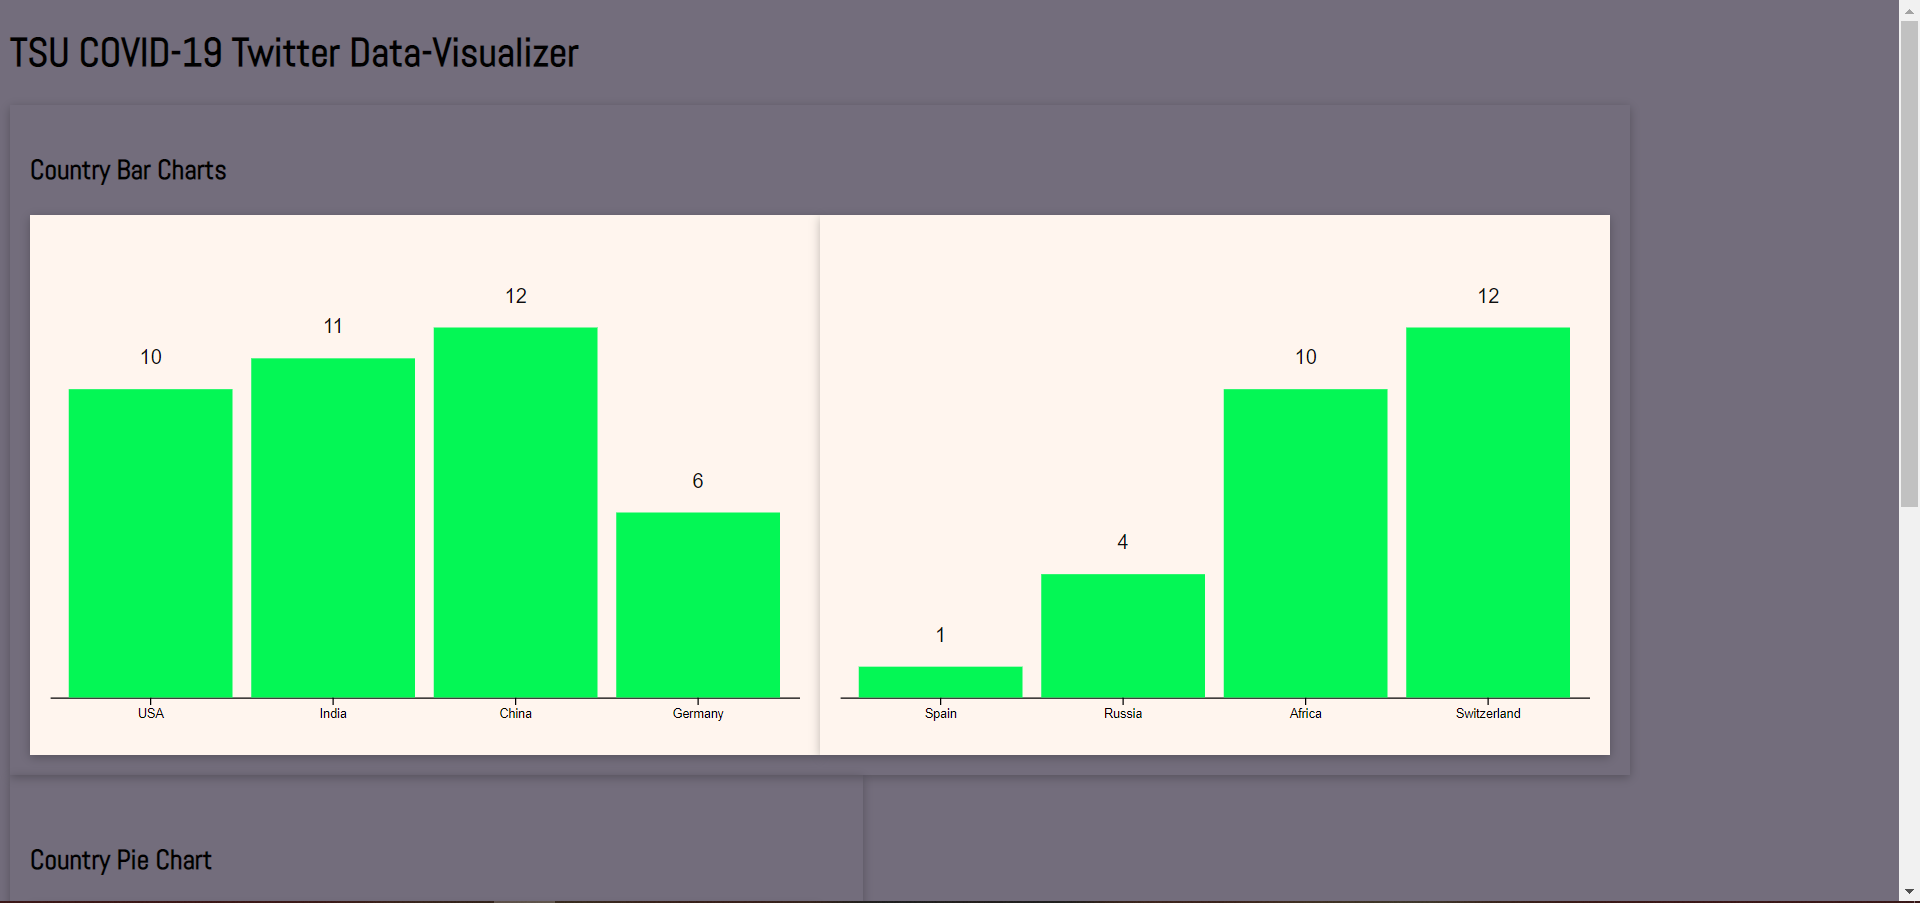
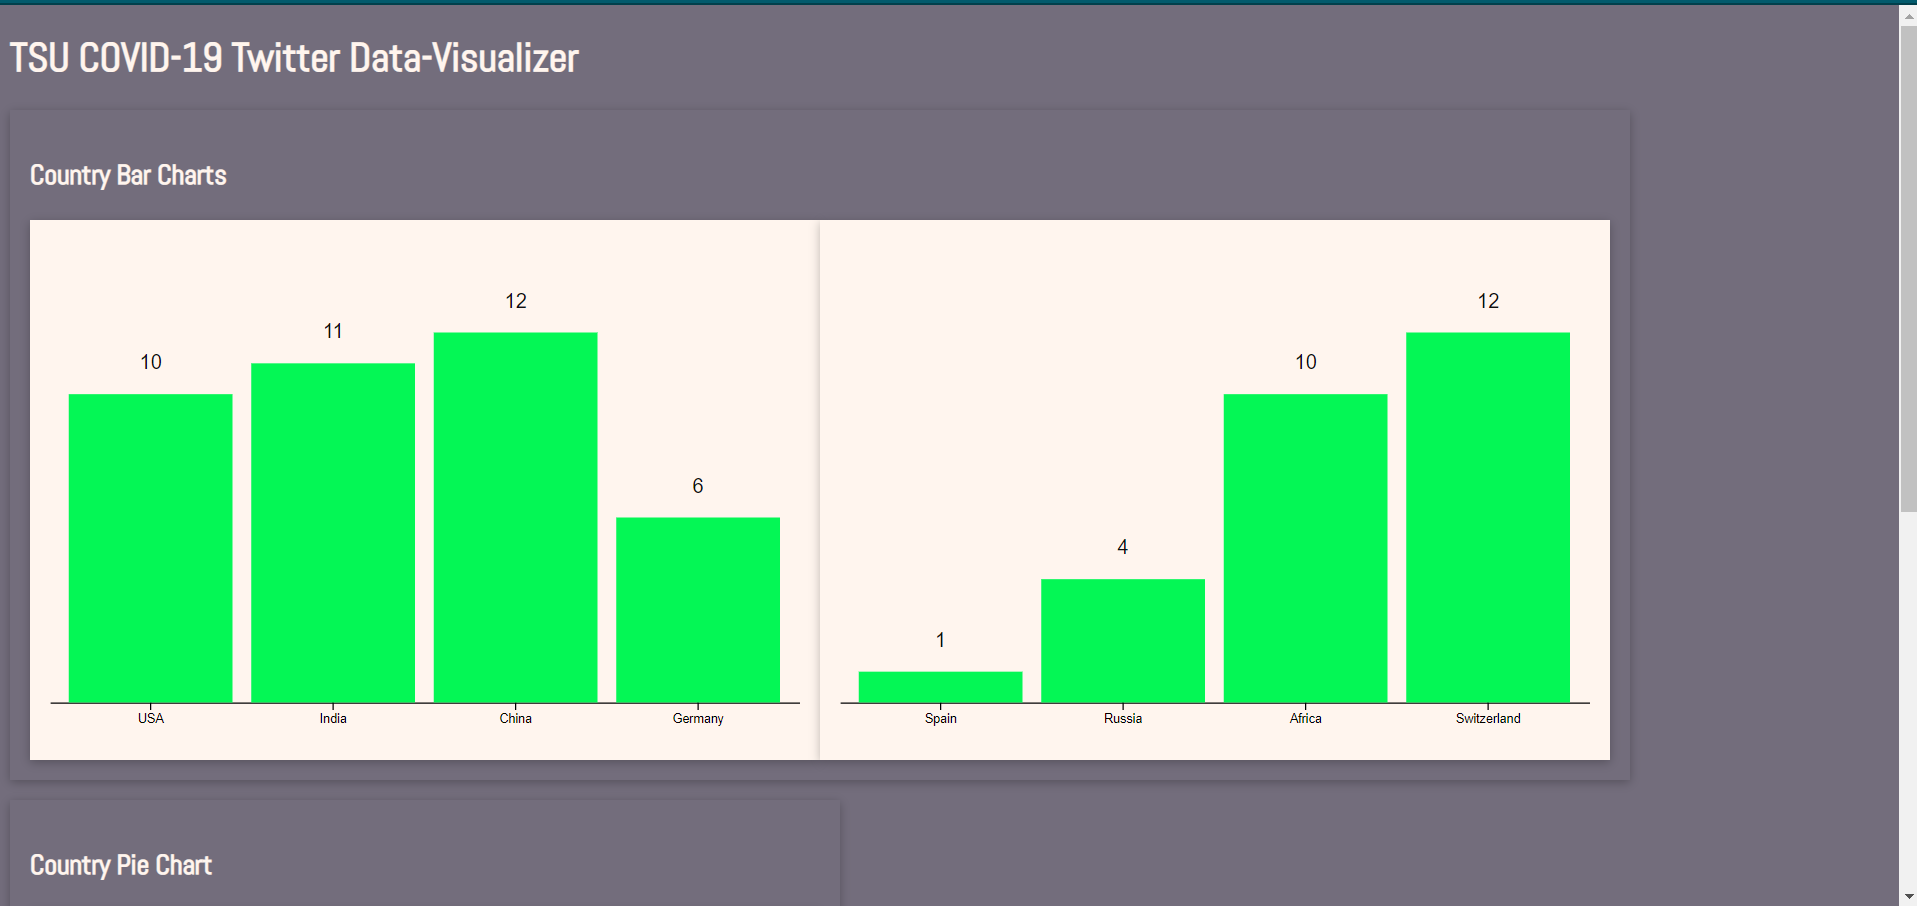
Changed the font color of the labels

diff --git a/index.css b/index.css
@@ -8,17 +8,20 @@ body {
 
 #app {
     display: flex;
+    padding-bottom: 1rem;
 }
 
 p {
    font-family: 'Abel';
    font-size: 22px;
    font-weight: bold;
+   color:seashell;
 }
 
 h1 {
    font-family: 'Abel';
    font-weight: bold;
+   color:seashell;
 }
 
 .container {
@@ -71,8 +74,4 @@ h1 {
     box-shadow: 0 2px 8px rgba(0, 0, 0, 0.26);
     background-color: seashell;
     padding: 1rem;
-}
-
-#spacing {
-    padding-top: 1rem;
 }

diff --git a/index.html b/index.html
@@ -26,7 +26,7 @@
             </div>
         </div>
     </div>
-    <div id="piechart" style="width: 650px;"> 
+    <div id="piechart" style="width: 632px;"> 
         <div id="spacing">
             <div><p>Country Pie Chart</p></div>
             <div id="pie" style="height: 500px; width: 600px;"></div>
